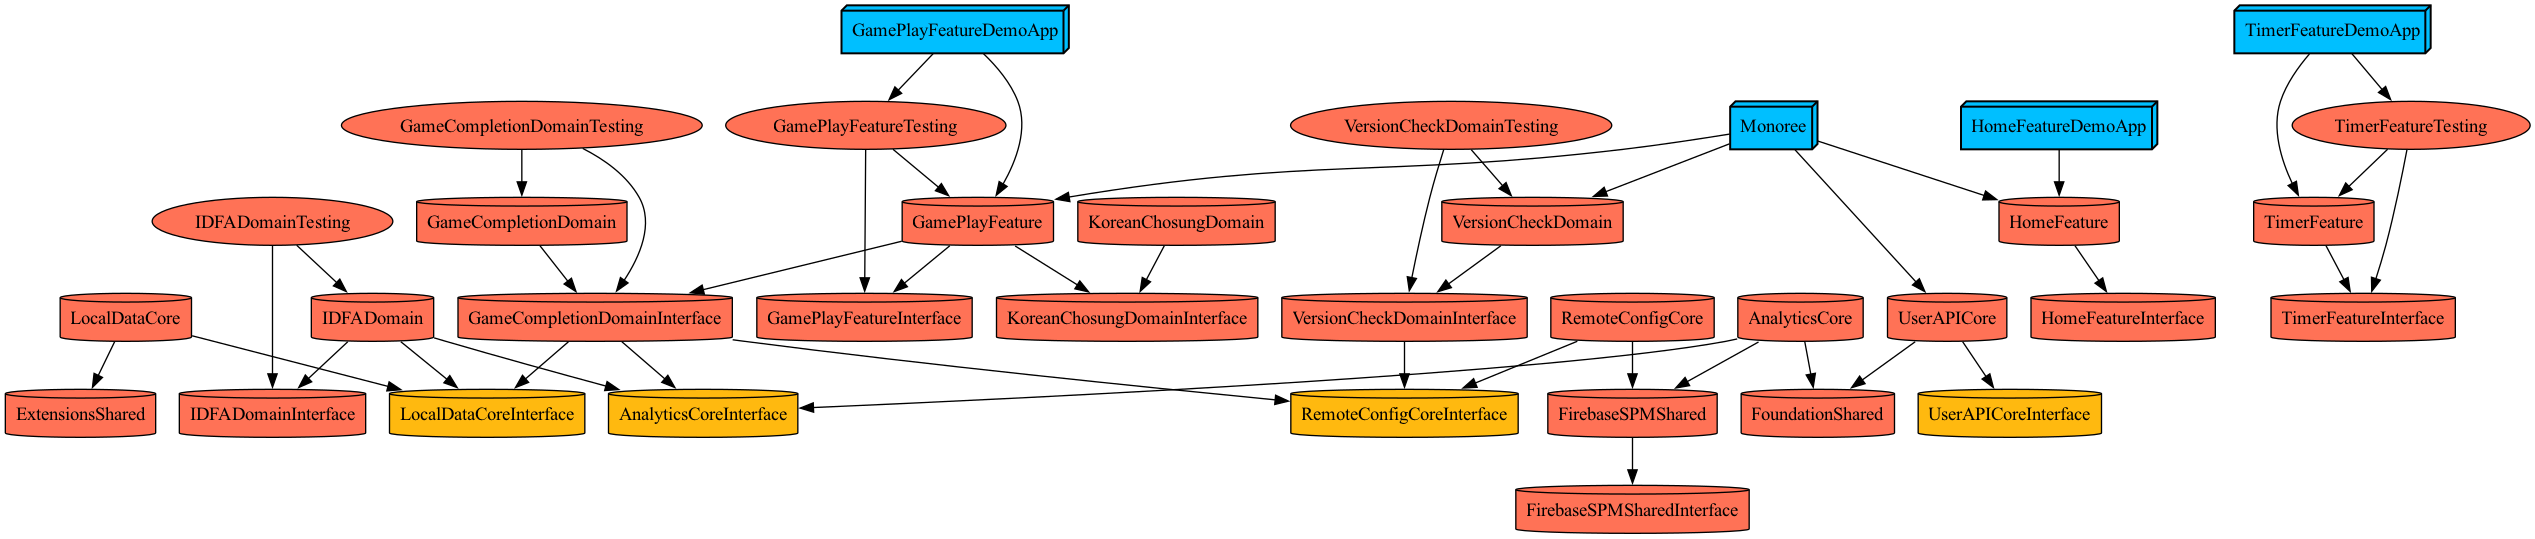
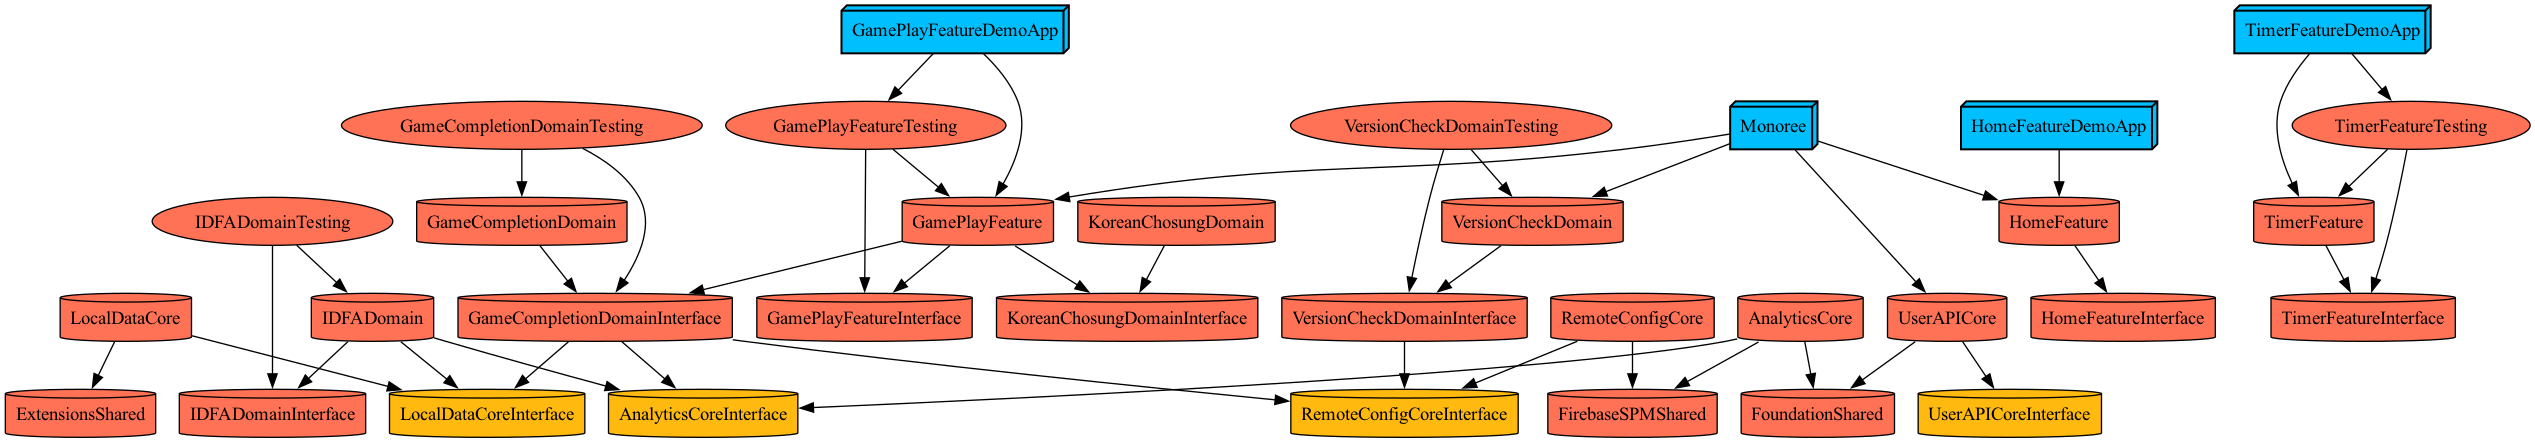
[#64] 테스트코드 초기값 변경

diff --git a/Projects/Shared/FirebaseSPMShared/Project.swift b/Projects/Shared/FirebaseSPMShared/Project.swift
@@ -5,14 +5,9 @@ let project = Project.module(
     name: SharedModule.FirebaseSPMShared.name,
     settings: .Module.default,
     targets: [
-        .interface(
-            shared: .FirebaseSPMShared,
-            dependencies: []
-        ),
         .implementation(
             shared: .FirebaseSPMShared,
             dependencies: [
-                .shared(target: .FirebaseSPMShared, type: .interface),
                 .SPM.firebaseCore,
                 .SPM.firebaseAnalytics,
                 .SPM.firebaseCrashlytics,
